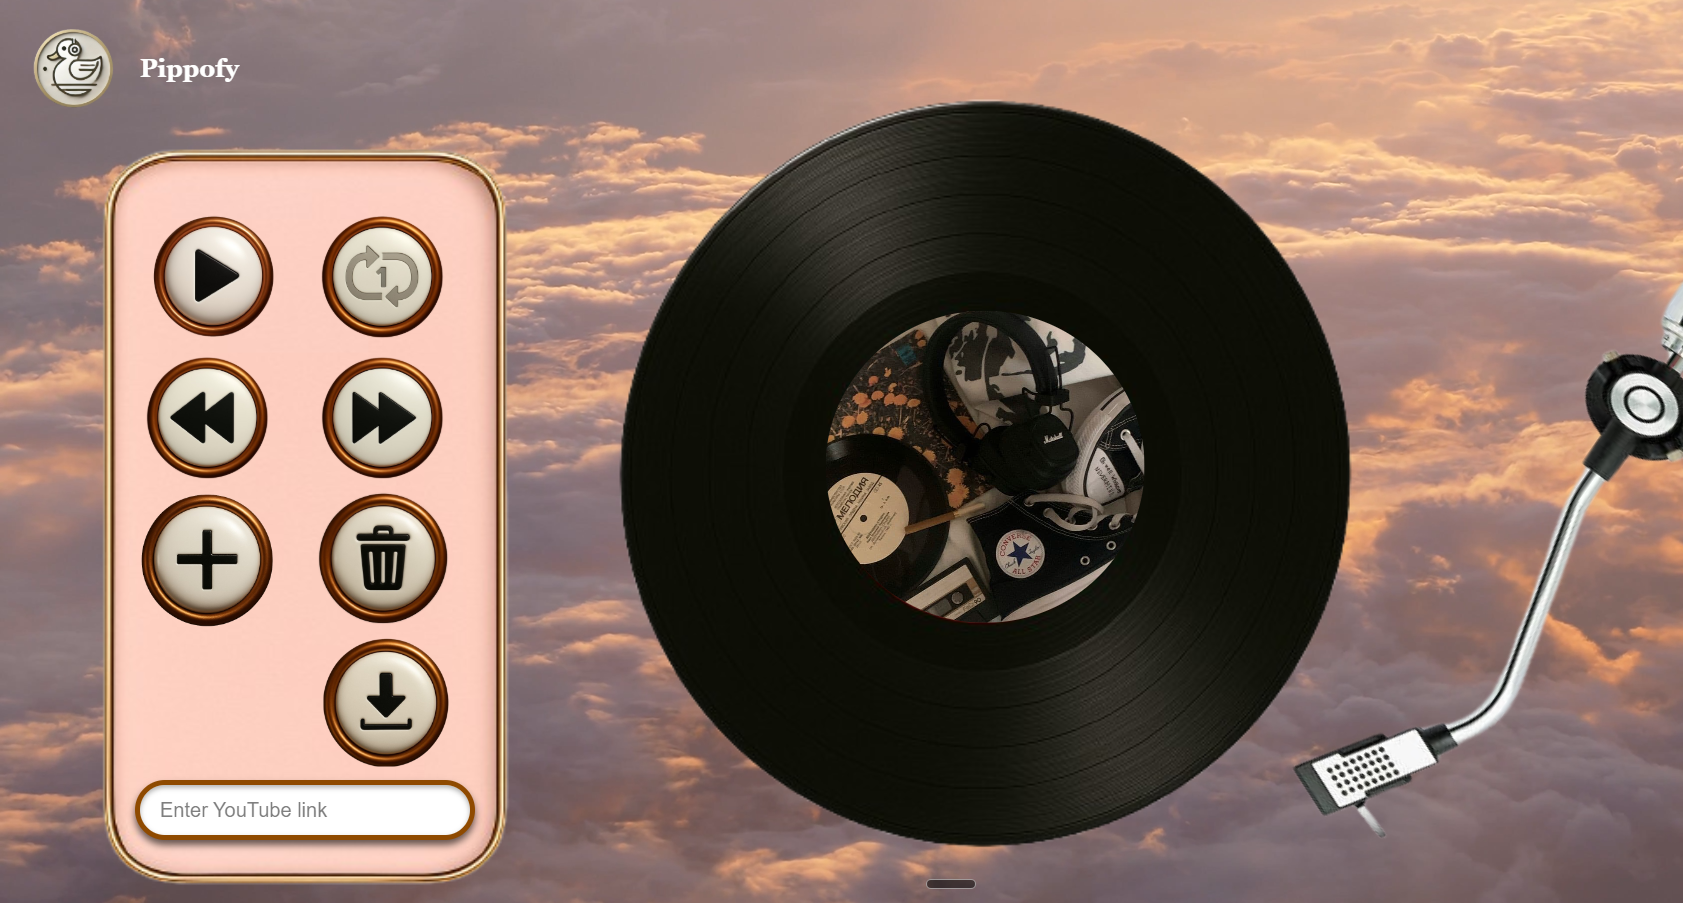
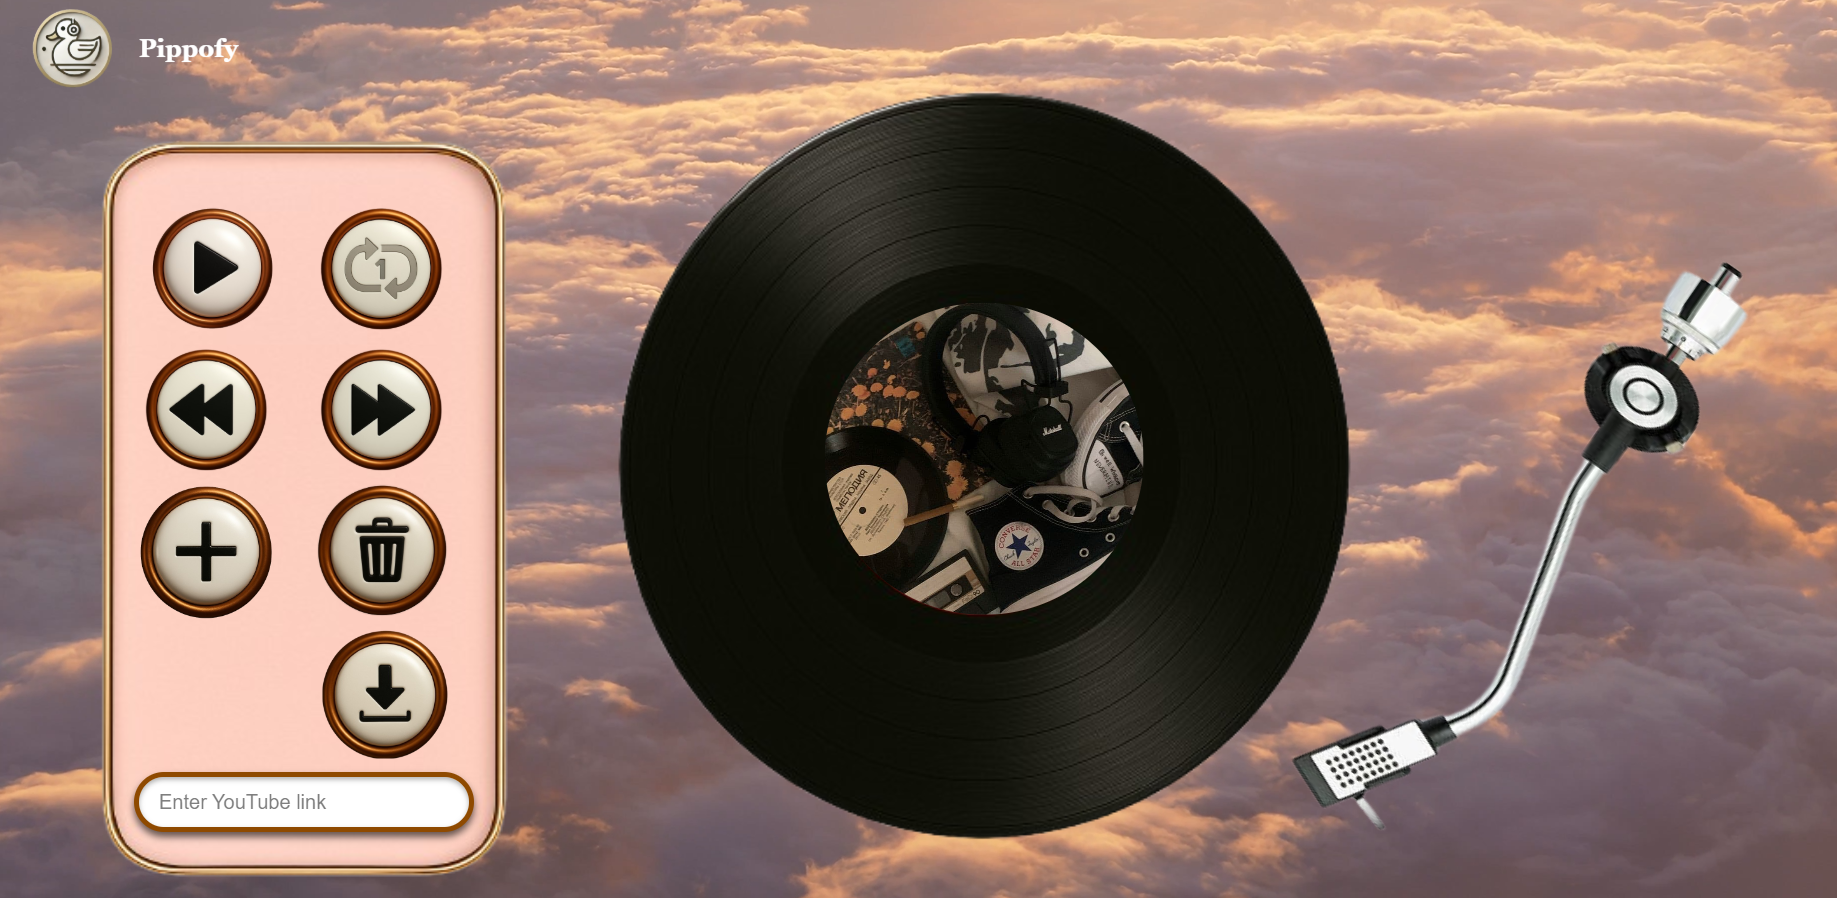
Updated header

diff --git a/components/header.tsx b/components/header.tsx
@@ -73,7 +73,7 @@ export default function Header() {
           y: isVisible ? 0 : -100 
         }}
         transition={{ duration: 0.3, ease: "easeInOut" }}
-        className="py-3 sm:py-4 px-4 sm:px-6 flex justify-between items-center bg-[#FFE4E4]/90 backdrop-blur-md fixed top-0 left-0 right-0 z-50 shadow-sm"
+        className="py-3 sm:py-4 px-4 sm:px-6 flex justify-between items-center bg-[#FFE4E4]/90 backdrop-blur-md fixed top-0 left-20 right-0 z-50 shadow-sm"
       >
         <motion.button
           onClick={() => scrollToSection("home")}

diff --git a/app/page.tsx b/app/page.tsx
@@ -16,7 +16,7 @@ export default function Home() {
     <div className="min-h-screen bg-background selection:bg-purple-500/30 overflow-x-hidden" id="home">
       <Header />
       
-      <main className="container mx-auto px-4 sm:px-6 lg:px-8 space-y-24 md:space-y-32 pt-28 md:pt-40">
+      <main className="container mx-auto px-4 sm:px-6 lg:px-8 space-y-24 md:space-y-32 pt-36 md:pt-52">
         
         {/* Bento Hero Section */}
         <section className="grid grid-cols-1 lg:grid-cols-3 gap-6">
